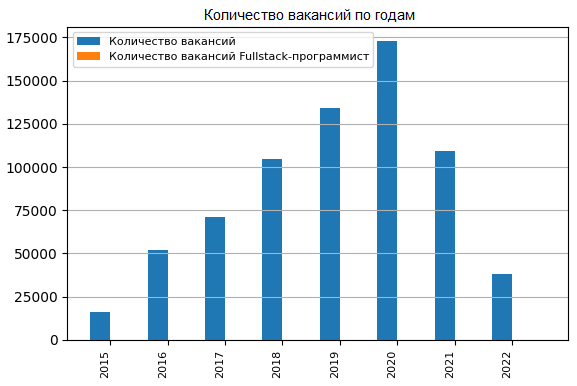
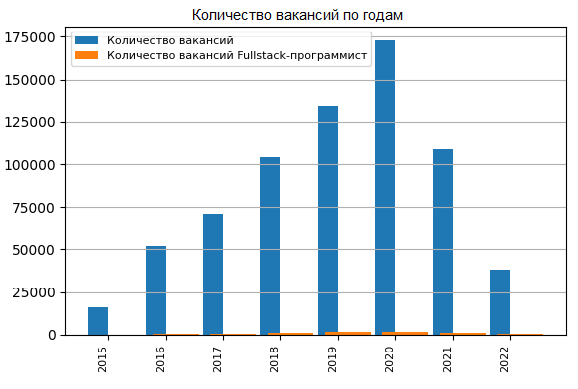
Add files via upload

Changed region(s): [[0.0, 0.0, 0.9983, 0.9948]]

diff --git a/profinfo/templates/skills.html b/profinfo/templates/skills.html
@@ -1,29 +1,55 @@
 {% extends 'layout.html' %}
+{% load static %}
 
 {% block title %}
-    <h1>Навыки</h1>
+    <h1>ТОП-10 навыков Fullstack-программиста</h1>
 {% endblock%}
 
 {% block content %}
 <h1 class="skill_name">ТОП-10 навыков Fullstack-программиста</h1>
+<h1 class="skill_name"><br></h1>
+<h1 class="skill_name">ТОП-10 навыков Fullstack-программиста по интернет-опросам</h1>
 <div class="skills_com">
-<table class="skills_table">
+    <table class="skills_table">
     <thead>
-    <tr>
-        <th>Название</th>
-        <th>Год</th>
-        <th>Количество повторений</th>
-    </tr>
+        <tr>
+            <th>Навык</th>
+            <th>Популярность</th>
+        </tr>
     </thead>
     <tbody>
-    {% for i in skil %}
-    <tr>
-        <th>{{i.skill}}</th>
-        <th>{{i.year}}</th>
-        <th>{{i.count}}</th>
-    </tr>
+    {% for i in skills_web %}
+        <tr>
+            <th>{{i.skills}}</th>
+            <th>{{i.count}}</th>
+        </tr>
     {% endfor %}
     </tbody>
-</table>
-    </div>
+    </table>
+    <img src="{% static 'profinfo/img/ManForSkills.png' %}" alt="Fullstack-Man">
+</div>
+<h1 class="skill_name"><br></h1>
+<h1 class="skill_name">ТОП-10 навыков Fullstack-программиста по годам <br> на основе vacancies_with_skills.csv (625M)</h1>
+<div class="skills_com">
+    <table class="skills_table">
+    <thead>
+        <tr>
+            <th colspan="2">Год {{years.0}}</th><th colspan="2">Год {{years.1}}</th><th colspan="2">Год {{years.2}}</th><th colspan="2">Год {{years.3}}</th>
+            <th colspan="2">Год {{years.4}}</th><th colspan="2">Год {{years.5}}</th><th colspan="2">Год {{years.6}}</th><th colspan="2">Год {{years.7}}</th>
+        </tr>
+        <tr>
+            <th>Навык</th><th>Количество повторений</th><th>Навык</th><th>Количество повторений</th><th>Навык</th><th>Количество повторений</th><th>Навык</th><th>Количество повторений</th>
+            <th>Навык</th><th>Количество повторений</th><th>Навык</th><th>Количество повторений</th><th>Навык</th><th>Количество повторений</th><th>Навык</th><th>Количество повторений</th>
+        </tr>
+    </thead>
+    <tbody>
+        {% for sk in skills_year.items %}
+            <tr>
+                <th>{{sk.1.0}}</th><th>{{sk.1.1}}</th><th>{{sk.1.2}}</th><th>{{sk.1.3}}</th><th>{{sk.1.4}}</th><th>{{sk.1.5}}</th><th>{{sk.1.6}}</th><th>{{sk.1.7}}</th>
+                <th>{{sk.1.8}}</th><th>{{sk.1.9}}</th><th>{{sk.1.10}}</th><th>{{sk.1.11}}</th><th>{{sk.1.12}}</th><th>{{sk.1.13}}</th><th>{{sk.1.14}}</th><th>{{sk.1.15}}</th>
+            </tr>
+        {% endfor %}
+    </tbody>
+    </table>
+</div>
 {% endblock%}

diff --git a/profinfo/static/profinfo/css/profinfo.css b/profinfo/static/profinfo/css/profinfo.css
@@ -2,7 +2,6 @@ body{
     background: #FFFFFF;
 }
 
-
 .page__left img{
     width: 250px;
     float: left;
@@ -39,7 +38,7 @@ li{
     margin-top: 5px;
 }
 
-.page__content {
+.page__content{
     color: #6f42c1;
     margin-top: 60px;
     margin-left: 50px;
@@ -62,8 +61,8 @@ li{
     margin-right: 10px;
 }
 
-.home_fst{
-    background-image: url("hero.png");
+.home_fullstack{
+    background-image: url("../../profinfo/img/home_profinfo.jpg");
     width: 200px;
     height: auto;
 }
@@ -71,7 +70,6 @@ li{
 table, th, td {
   border: 1px solid black;
 }
-
 
 h1{
     color: #6f42c1;
@@ -126,7 +124,6 @@ th{
     margin-top: 40px;
 }
 
-
 .page{
     overflow: hidden;
     display: grid;
@@ -156,6 +153,8 @@ th{
 .img_home{
     width: 500px;
     height: 100%;
+    border-radius: 15px;
+    border:5px solid #6f42c1;
 }
 
 .geog img{
@@ -168,3 +167,25 @@ th{
 .geog{
     margin-top: 60px;
 }
+
+.skills_com{
+    margin-left: -150px;
+    margin-top: 30px;
+}
+
+.years{
+    box-shadow: 0px 5px 10px 0px rgba(0, 0, 0, 0.5);
+    background: #9370DB;
+    width: 200vh;
+    padding-left: -30px;
+    color: white;
+}
+
+p{
+    margin-left: 50px;
+}
+
+/* .block_1{
+}
+Footer
+© 2023 GitHub, Inc. */

diff --git a/profinfo/templates/lastVac.html b/profinfo/templates/lastVac.html
@@ -5,6 +5,15 @@
 {% endblock%}
 
 {% block content %}
-    <h1>Последние вакансии</h1>
-    <p></p>
+<h1 class="skill_name">Последние вакансии</h1>
+    {% for i in skills %}
+        <p>
+        {{i.name}}
+        {{i.description}}
+        {{i.key_skills}}
+        {{i.employer.name}}
+        {{i.salary}}
+        {{i.area.name}}
+        {{i.published_at}}
+    {% endfor %}
 {% endblock%}

diff --git a/profinfo/views.py b/profinfo/views.py
@@ -1,9 +1,10 @@
-#from django.shortcuts import render
 from django.http import HttpResponse
 from django.shortcuts import render
 from django.template import loader
 from profinfo.models import DynamicsSalaryByYear, DynamicsVacanciesByYear, DynamicsSalaryByYearsForProf, \
     DynamicsVacanciesByYearForProf, SalaryLevelsByCity, FractionVacanciesByCity, TopSkills
+import json
+import requests
 
 # Create your views here.
 
@@ -13,22 +14,15 @@ def index(request):
     }
     return render(request, 'index.html', home)
 
-
 def demand(request):
-    dem = DynamicsSalaryByYear.objects.all()
+    dem = DynamicsSalaryByYear.objects.all().order_by('year')
     for i in dem:
         i.salary = int(i.salary)
-    dem_2 = DynamicsVacanciesByYear.objects.all()
-    dem_3 = DynamicsSalaryByYearsForProf.objects.all()
+    dem_2 = DynamicsVacanciesByYear.objects.all().order_by('year')
+    dem_3 = DynamicsSalaryByYearsForProf.objects.all().order_by('year')
     for i in dem_3:
         i.salary = int(i.salary)
-    dem_4 = DynamicsVacanciesByYearForProf.objects.all()
-
-    # print(dem)
-    # print(dem_2)
-    # print(dem_3)
-    # print(dem_4)
-
+    dem_4 = DynamicsVacanciesByYearForProf.objects.all().order_by('year')
     template = loader.get_template('demand.html')
     context = {
         'saltotal': dem,
@@ -39,16 +33,12 @@ def demand(request):
     return HttpResponse(template.render(context, request))
 
 def geography(request):
-    geog = SalaryLevelsByCity.objects.all()
+    geog = SalaryLevelsByCity.objects.all().order_by('-salary')
     for i in geog:
         i.salary = int(i.salary)
-    geog_2 = FractionVacanciesByCity.objects.all()
+    geog_2 = FractionVacanciesByCity.objects.all().order_by('-fraction')
     for i in geog_2:
         i.fraction = "{:.2%}".format(i.fraction)
-    
-    #print(geog)
-    #print(geog_2)
-
     template = loader.get_template('geography.html')
     context = {
         'vacforcity': geog,
@@ -57,15 +47,52 @@ def geography(request):
     return HttpResponse(template.render(context, request))
 
 def skills(request):
-    skill = TopSkills.objects.all()
-
-    #print(skill)
-
+    skills_web = TopSkills.objects.filter(year = 0).order_by('-count')
+    for i in skills_web:
+        i.count = float(i.count)/100
+        i.count = "{:.2%}".format(i.count/100)
+    skills_all = TopSkills.objects.exclude(year = 0)
+    years = sorted(set(str(i.year) for i in skills_all))
+    numb = [i for i in range(10)]
+    skills_year0 = {}
+    for yr in years:
+        skills_year0[yr] = {}
+        n = 0
+        for j in TopSkills.objects.filter(year = yr).order_by('-count'):
+            if n == 10: break
+            skills_year0[yr][str(n)] = (j.skills, j.count)
+            n += 1
+    skills_year = {}
+    for n in numb:
+        skills_year[str(n)] = (skills_year0[years[0]][str(n)][0],skills_year0[years[0]][str(n)][1],skills_year0[years[1]][str(n)][0],skills_year0[years[1]][str(n)][1],
+                          skills_year0[years[2]][str(n)][0],skills_year0[years[2]][str(n)][1],skills_year0[years[3]][str(n)][0],skills_year0[years[3]][str(n)][1],
+                          skills_year0[years[4]][str(n)][0],skills_year0[years[4]][str(n)][1],skills_year0[years[5]][str(n)][0],skills_year0[years[5]][str(n)][1],
+                          skills_year0[years[6]][str(n)][0],skills_year0[years[6]][str(n)][1],skills_year0[years[7]][str(n)][0],skills_year0[years[7]][str(n)][1])
     template = loader.get_template('skills.html')
     context = {
-        'skill': skill
+        'numb': numb,
+        'years': years,
+        'skills_web': skills_web,
+        'skills_year': skills_year,
     }
     return HttpResponse(template.render(context, request))
 
 def lastVac(request):
-    return render(request, 'lastVac.html')
+    req = requests.get('https://api.hh.ru/vacancies', {'text': 'Name: fullstack'})
+    hhdata = req.content.decode()
+    req.close()
+    res = []
+    for v in json.loads(hhdata)['items'][:10]:
+        req = requests.get(v['url'])
+        hhdata = req.content.decode()
+        req.close()
+        res.append(json.loads(hhdata))
+    
+    print(res)
+    
+    template = loader.get_template('lastVac.html')
+    context = {
+        'skills': res
+    }
+    return HttpResponse(template.render(context, request))
+

diff --git a/fullstack/load_last_vacancies.py b/fullstack/load_last_vacancies.py
@@ -1,0 +1,21 @@
+import json
+import requests
+
+def getLastVacancies(name):
+    req = requests.get('https://api.hh.ru/vacancies', {'text': f'Name: {name}'})
+    hhdata = req.content.decode()
+    req.close()
+    res = []
+    for v in json.loads(hhdata)['items'][:10]:
+        req = requests.get(v['url'])
+        hhdata = req.content.decode()
+        req.close()
+        res.append(json.loads(hhdata))
+    return(res)
+    
+lastVachh = []
+res = getLastVacancies('fullstack')
+print(res)
+lastVachh.append(res)
+
+xxx = 1
